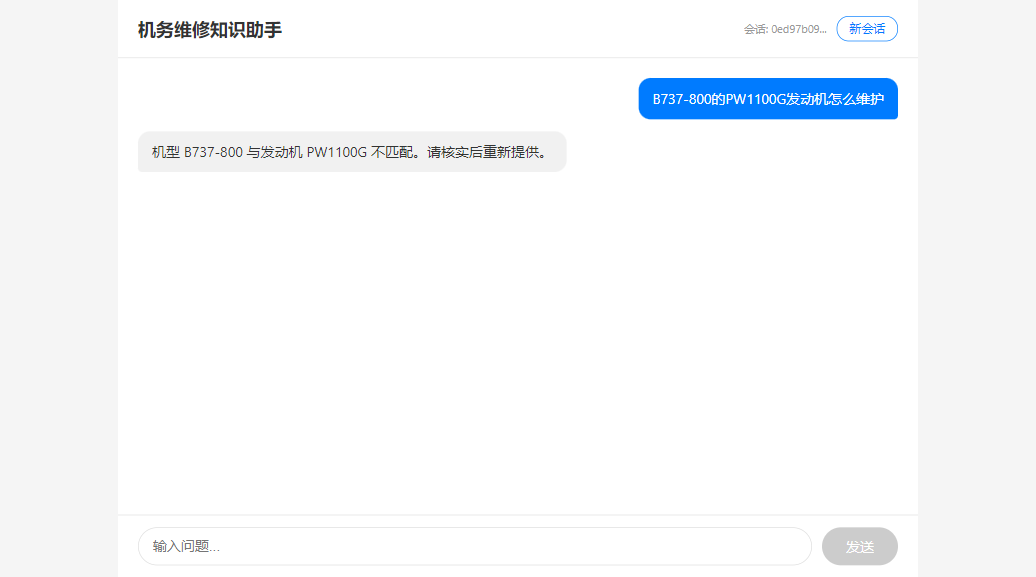
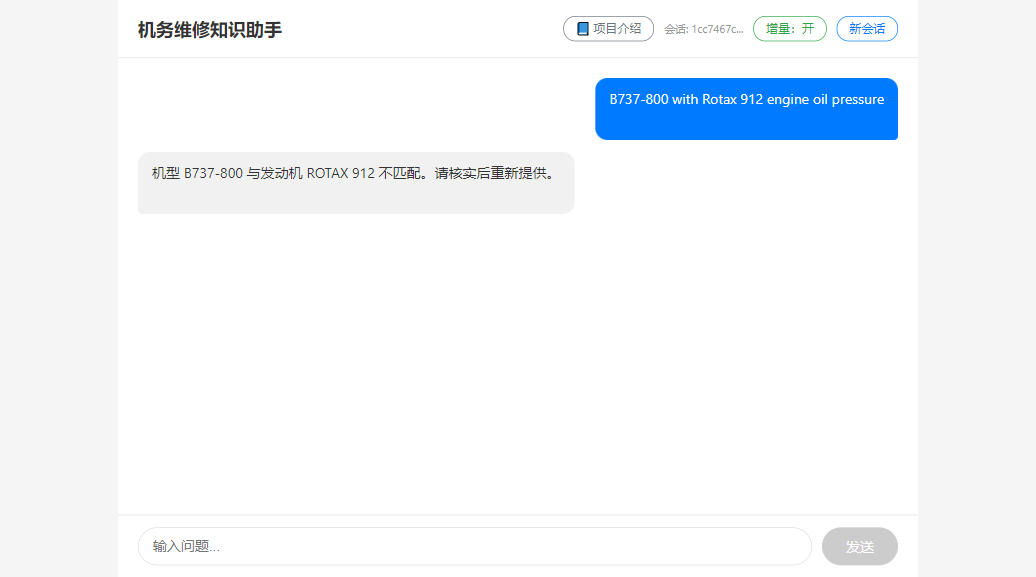
docs(readme): 更新功能演示截图并增加项目介绍模式
- 使用 Playwright 重新截取所有功能演示截图
- 新增项目介绍模式截图 scenario1-guide.png
- 更新 README.md 功能演示章节，增加项目介绍模式说明

Changed region(s): [[0.556, 0.1248, 0.8649, 0.2496], [0.1236, 0.2496, 0.5251, 0.312], [0.556, 0.0312, 0.8031, 0.0936]]

diff --git a/README.md b/README.md
@@ -15,6 +15,12 @@
 
 ## 📸 功能演示
 
+### 项目介绍模式
+
+首次进入自动弹出项目导览，方便非航空背景面试官快速理解项目背景、技术架构与核心难点。
+
+![项目介绍模式](docs/assets/screenshots/scenario1-guide.png)
+
 ### 初始界面
 
 ![初始界面](docs/assets/screenshots/scenario0-initial.png)
